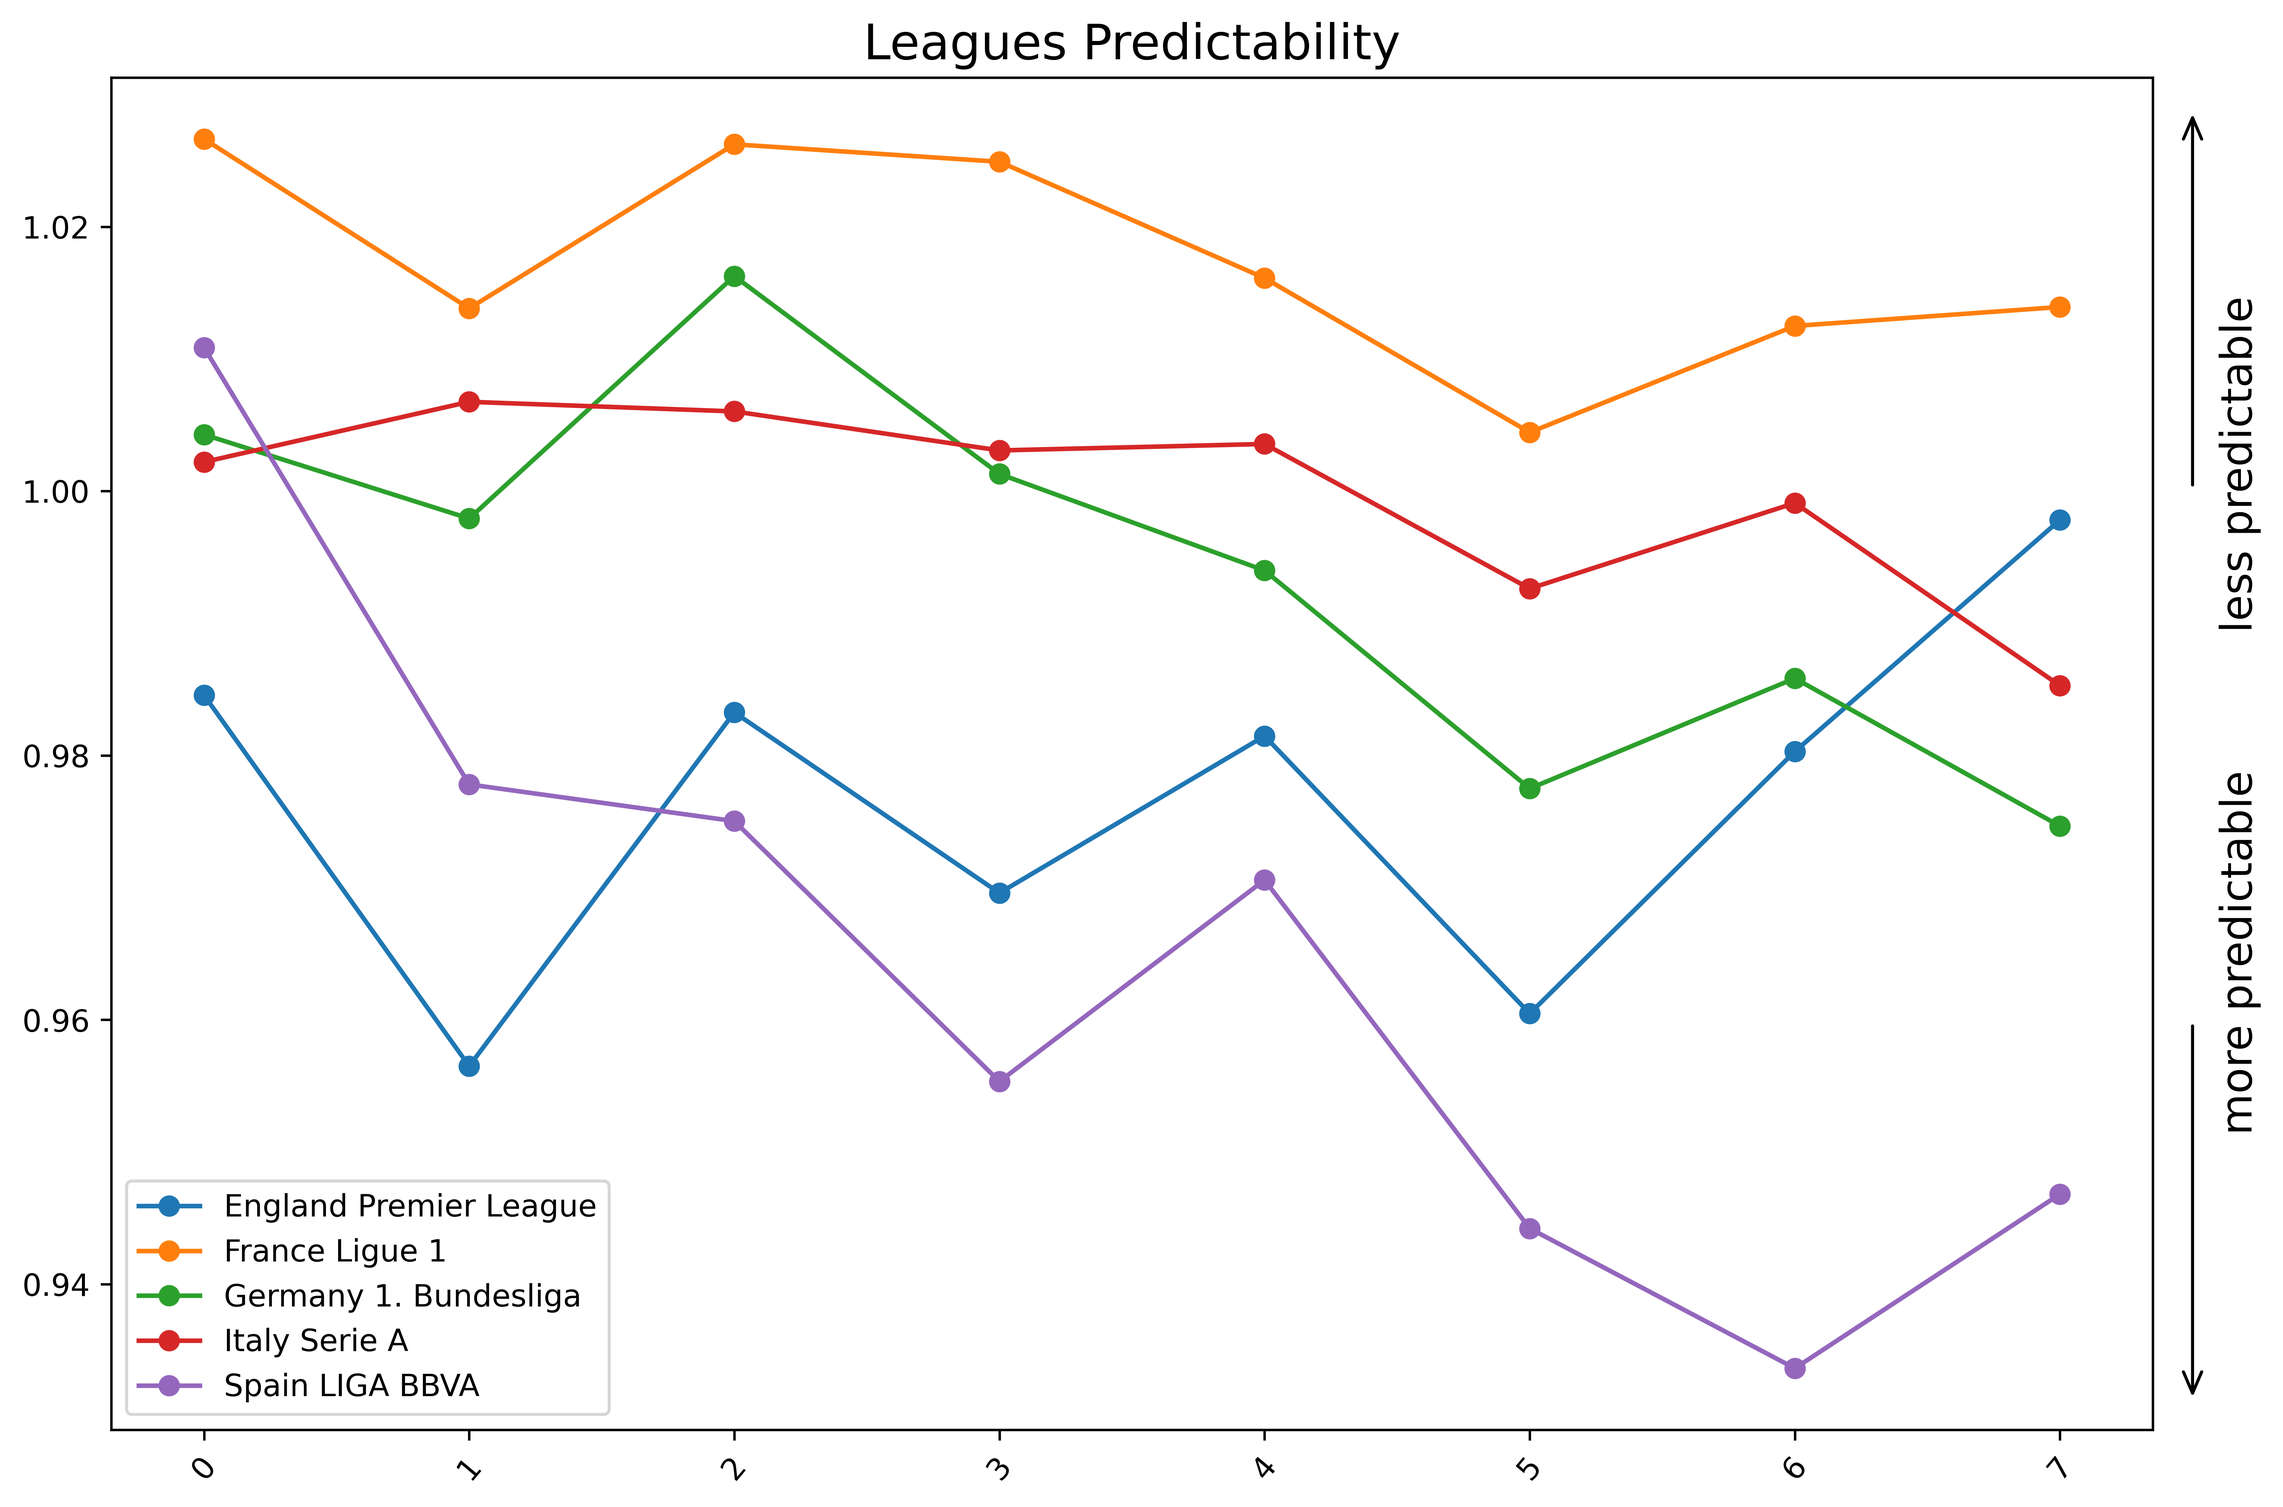
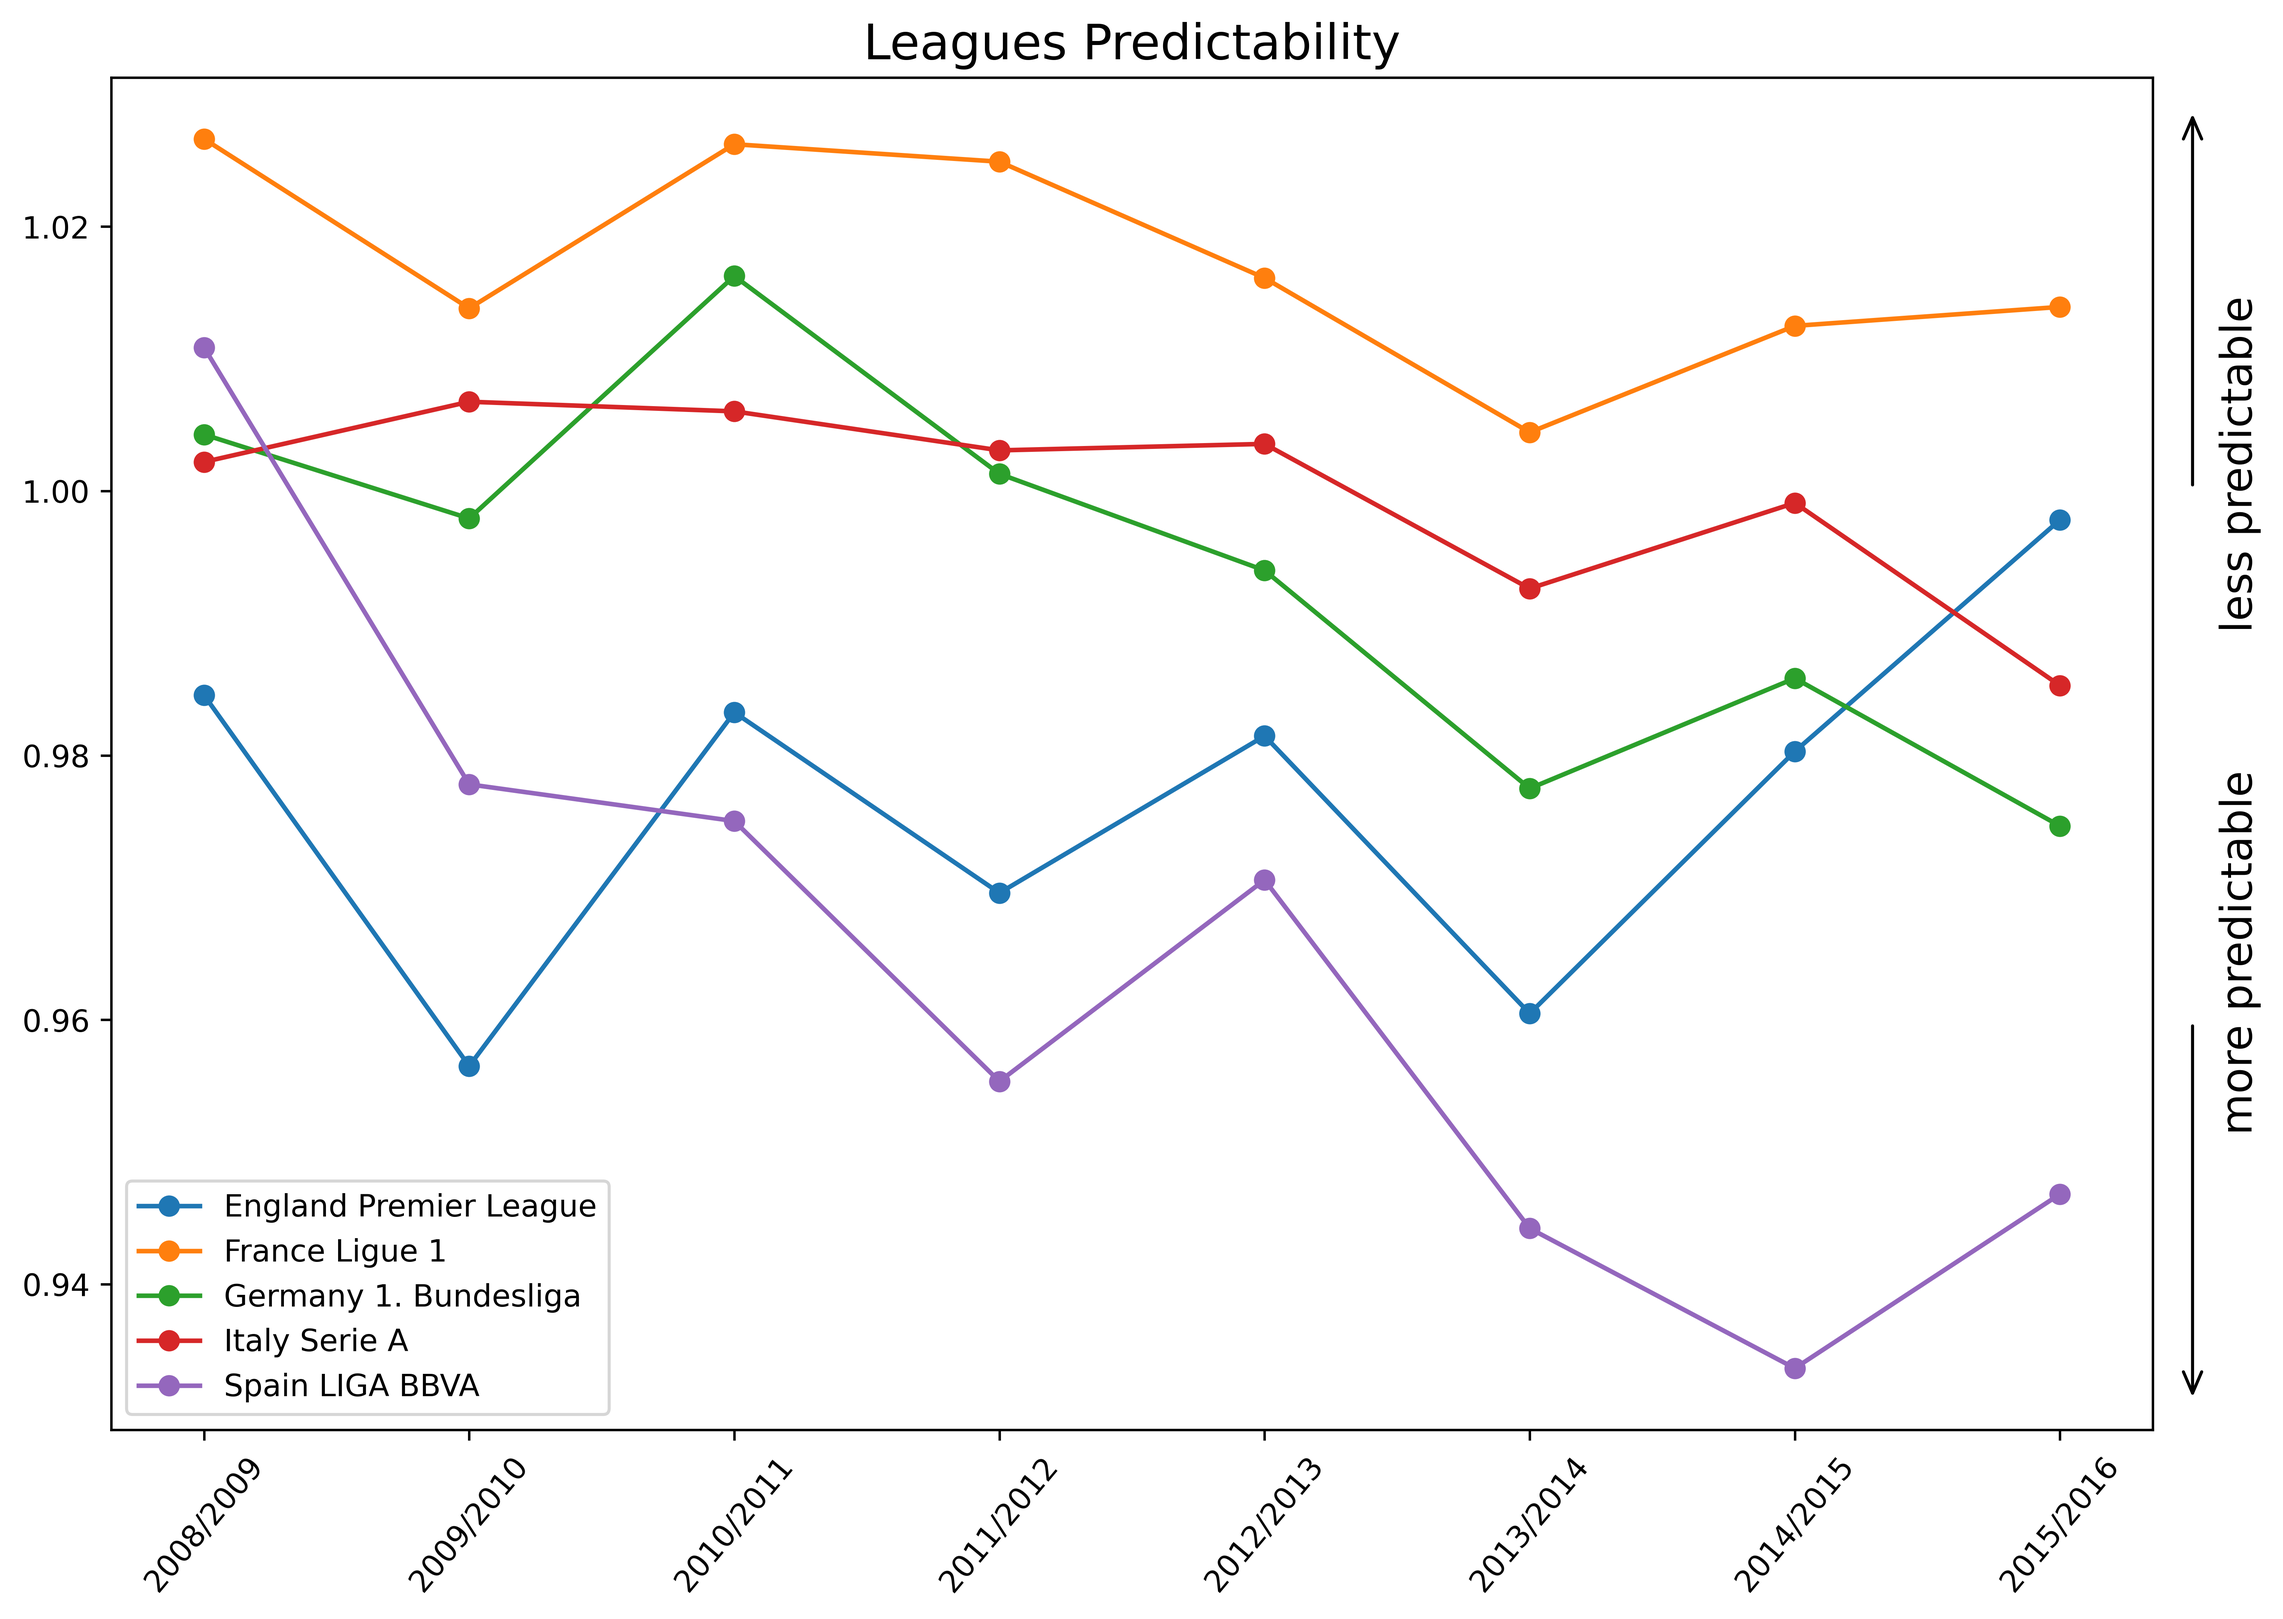
pipeline completed

diff --git a/src/visualization/visualize.py b/src/visualization/visualize.py
@@ -6,92 +6,97 @@ from numpy import random
 import matplotlib.pyplot as plt
 from matplotlib.lines import Line2D
 
-#load data
-matches = pd.read_csv('data/processed/matches.csv')
-entropy_means = pd.read_csv('data/processed/entropy_means.csv')
-teams = pd.read_csv('data/processed/teams.csv')
-leagues = pd.read_csv('data/processed/leagues.csv')
 
+def make_visualizations(matches, entropy_means, teams, leagues):
 
-## -- Leagues Predictability -- ##
+    ## -- Leagues Predictability -- ##
 
-ax = entropy_means.plot(figsize=(12,8),marker='o') #plot graph
-plt.title('Leagues Predictability', fontsize=16)   #set title
-plt.xticks(rotation=50)                            #set ticks rotation
-colors = [x.get_color() for x in ax.get_lines()]   #keep colors for next graph
-colors_mapping = dict(zip(matches.league_id,colors))
-ax.set_xlabel('')                                  #remove x label
-plt.legend(loc='lower left')                       #locate legend
-#add arrows:
-ax.annotate('', xytext=(7.5, 1),xy=(7.5, 1.029),
-            arrowprops=dict(facecolor='black',arrowstyle="->, head_length=.7, head_width=.3",linewidth=1), annotation_clip=False)
-ax.annotate('', xytext=(7.5, 0.96),xy=(7.5, 0.931),
-            arrowprops=dict(facecolor='black',arrowstyle="->, head_length=.7, head_width=.3",linewidth=1), annotation_clip=False)
-ax.annotate('less predictable', xy=(7.6, 0.99), annotation_clip=False,fontsize=14,rotation='vertical')
-ax.annotate('more predictable', xy=(7.6, 0.952), annotation_clip=False,fontsize=14,rotation='vertical')
+    ax = entropy_means.plot(figsize=(12,8),marker='o') #plot graph
+    plt.title('Leagues Predictability', fontsize=16)   #set title
+    plt.xticks(rotation=50)                            #set ticks rotation
+    colors = [x.get_color() for x in ax.get_lines()]   #keep colors for next graph
+    colors_mapping = dict(zip(matches.League.unique(),colors))
+    ax.set_xlabel('')                                  #remove x label
+    plt.legend(loc='lower left')                       #locate legend
+    #add arrows:
+    ax.annotate('', xytext=(7.5, 1),xy=(7.5, 1.029),
+                arrowprops=dict(facecolor='black',arrowstyle="->, head_length=.7, head_width=.3",linewidth=1), annotation_clip=False)
+    ax.annotate('', xytext=(7.5, 0.96),xy=(7.5, 0.931),
+                arrowprops=dict(facecolor='black',arrowstyle="->, head_length=.7, head_width=.3",linewidth=1), annotation_clip=False)
+    ax.annotate('less predictable', xy=(7.6, 0.99), annotation_clip=False,fontsize=14,rotation='vertical')
+    ax.annotate('more predictable', xy=(7.6, 0.952), annotation_clip=False,fontsize=14,rotation='vertical')
 
-plt.savefig('reports/figures/leagues_pred.png', bbox_inches='tight',dpi=600)
+    plt.savefig('reports/figures/leagues_pred.png', bbox_inches='tight',dpi=600)
 
+    ## -- Teams Predictability -- ##
 
-## -- Teams Predictability -- ##
+    offsets = [-0.16,-0.08,0,0.08,0.16]
+    colors_mapping = dict(zip(matches.league_id.unique(),colors))
+    offsets_mapping = dict(zip(colors_mapping.keys(),offsets))
+    y = []
+    x = []
+    c = []
 
-offsets = [-0.16,-0.08,0,0.08,0.16]
-offsets_mapping = dict(zip(colors_mapping.keys(),offsets))
-y = []
-x = []
-c = []
+    i = -1
+    for season,season_df in matches.groupby('season'):
+        i+=1
+        for team,name in zip(teams.team_api_id,teams.team_long_name):
+            #WIP:
+            team_df = season_df[(season_df.home_team_api_id==team)|(season_df.away_team_api_id==team)]
+            team_entropy = team_df.entropy.mean()
+            if team_entropy>0:
+                league_id = team_df.league_id.values[0]
+                x.append(i+offsets_mapping[league_id])
+                y.append(team_entropy)
+                c.append(colors_mapping[league_id])
 
-i = -1
-for season,season_df in matches.groupby('season'):
-    i+=1
-    for team,name in zip(teams.team_api_id,teams.team_long_name):
-        #WIP:
-        team_df = season_df[(season_df.home_team_api_id==team)|(season_df.away_team_api_id==team)]
-        team_entropy = team_df.entropy.mean()
-        if team_entropy>0:
-            league_id = team_df.league_id.values[0]
-            x.append(i+offsets_mapping[league_id])
-            y.append(team_entropy)
-            c.append(colors_mapping[league_id])
+    plt.figure(figsize=(16,8))
+    plt.scatter(x,y,color=c,s=[60]*len(x))
+    plt.title('Teams Predictability', fontsize=16)
 
-plt.figure(figsize=(16,8))
-plt.scatter(x,y,color=c,s=[60]*len(x))
-plt.title('Teams Predictability', fontsize=16)
+    #create ticks and labels
+    ax = plt.gca()
+    plt.xlim((-0.5,7.5))
+    plt.xticks(np.arange(0,8,1),rotation=50)
 
-#create ticks and labels
-ax = plt.gca()
-plt.xlim((-0.5,7.5))
-plt.xticks(np.arange(0,8,1),rotation=50)
+    #create grid
+    ax.set_xticklabels(entropy_means.index,fontsize=12)
+    for i in range(7):
+        ax.axvline(x=0.5+i,ls='--',c='w')
+    ax.yaxis.grid(False)
+    ax.xaxis.grid(False)
 
-#create grid
-ax.set_xticklabels(entropy_means.index,fontsize=12)
-for i in range(7):
-    ax.axvline(x=0.5+i,ls='--',c='w')
-ax.yaxis.grid(False)
-ax.xaxis.grid(False)
+    #create legend
+    circles = []
+    labels = []
+    #for league_id,name in zip(leagues.id,leagues.name):
+    #    labels.append(name)
+    #    circles.append(Line2D([0], [0], linestyle="none", marker="o", markersize=8, markerfacecolor=colors_mapping[league_id]))
+    #plt.legend(circles, labels, numpoints=3, loc=(0.005,0.02))
 
-#create legend
-circles = []
-labels = []
-for league_id,name in zip(leagues.id,leagues.name):
-    labels.append(name)
-    circles.append(Line2D([0], [0], linestyle="none", marker="o", markersize=8, markerfacecolor=colors_mapping[league_id]))
-plt.legend(circles, labels, numpoints=3, loc=(0.005,0.02))
+    #add arrows
+    ax.annotate('', xytext=(7.65, 0.93),xy=(7.65, 1.1),
+                arrowprops=dict(facecolor='black',arrowstyle="->, head_length=.7, head_width=.3",linewidth=1), annotation_clip=False)
 
-#add arrows
-ax.annotate('', xytext=(7.65, 0.93),xy=(7.65, 1.1),
-            arrowprops=dict(facecolor='black',arrowstyle="->, head_length=.7, head_width=.3",linewidth=1), annotation_clip=False)
+    ax.annotate('', xytext=(7.65, 0.77),xy=(7.65, 0.6),
+                arrowprops=dict(facecolor='black',arrowstyle="->, head_length=.7, head_width=.3",linewidth=1), annotation_clip=False)
 
-ax.annotate('', xytext=(7.65, 0.77),xy=(7.65, 0.6),
-            arrowprops=dict(facecolor='black',arrowstyle="->, head_length=.7, head_width=.3",linewidth=1), annotation_clip=False)
+    ax.annotate('less predictable', xy=(7.75, 1.05), annotation_clip=False,fontsize=14,rotation='vertical')
+    ax.annotate('more predictable', xy=(7.75, 0.73), annotation_clip=False,fontsize=14,rotation='vertical')
 
-ax.annotate('less predictable', xy=(7.75, 1.05), annotation_clip=False,fontsize=14,rotation='vertical')
-ax.annotate('more predictable', xy=(7.75, 0.73), annotation_clip=False,fontsize=14,rotation='vertical')
+    #add labels
+    ax.annotate('Barcelona', xy=(6.55, 0.634),fontsize=9)
+    ax.annotate('B. Munich', xy=(6.5, 0.655),fontsize=9)
+    ax.annotate('Real Madrid', xy=(6.51, 0.731),fontsize=9)
+    ax.annotate('PSG', xy=(6.93, 0.78),fontsize=9)
 
-#add labels
-ax.annotate('Barcelona', xy=(6.55, 0.634),fontsize=9)
-ax.annotate('B. Munich', xy=(6.5, 0.655),fontsize=9)
-ax.annotate('Real Madrid', xy=(6.51, 0.731),fontsize=9)
-ax.annotate('PSG', xy=(6.93, 0.78),fontsize=9)
+    plt.savefig('reports/figures/teams_pred.png', bbox_inches='tight',dpi=600)
 
-plt.savefig('reports/figures/teams_pred.png', bbox_inches='tight',dpi=600)
+if __name__ == '__main__':
+    #load data
+    matches = pd.read_csv('data/processed/matches_with_entropy.csv')
+    entropy_means = pd.read_csv('data/processed/entropy_means.csv')
+    teams = pd.read_csv('data/processed/teams.csv')
+    leagues = pd.read_csv('data/processed/leagues.csv')
+
+    make_visualizations(matches, entropy_means, teams, leagues)

diff --git a/src/features/build_features.py b/src/features/build_features.py
@@ -4,12 +4,6 @@ import pandas as pd
 from scipy.stats import entropy
 
 
-#load data
-countries = pd.read_csv('data/processed/countries.csv')
-matches = pd.read_csv('data/processed/matches.csv')
-leagues = pd.read_csv('data/processed/leagues.csv')
-
-
 def match_entropy(row):
     odds = [row['B365H'],row['B365D'],row['B365A']]
     #change odds to probability
@@ -19,21 +13,34 @@ def match_entropy(row):
     probs = [p/norm for p in probs]
     return entropy(probs)
 
+def process(matches, countries, leagues):
 
-#select relevant countries and merge with leagues
-selected_countries = ['England','France','Germany','Italy','Spain']
-countries = countries[countries.name.isin(selected_countries)]
-leagues = countries.merge(leagues,on='id',suffixes=('', '_y'))
+    #select relevant countries and merge with leagues
+    selected_countries = ['England','France','Germany','Italy','Spain']
+    countries = countries[countries.name.isin(selected_countries)]
+    leagues = countries.merge(leagues,on='id',suffixes=('', '_y'))
 
-#select relevant fields
-matches = matches[matches.league_id.isin(leagues.id)]
-matches = matches[['id', 'country_id' ,'league_id', 'season', 'stage', 'date','match_api_id', 'home_team_api_id', 'away_team_api_id',
-    'B365H', 'B365D' ,'B365A']]
+    #select relevant fields
+    matches = matches[matches.league_id.isin(leagues.id)]
+    matches = matches[['id', 'country_id' ,'league_id', 'season', 'stage', 'date','match_api_id', 'home_team_api_id', 'away_team_api_id',
+        'B365H', 'B365D' ,'B365A']]
+    matches['League'] = matches.league_id.map(leagues.set_index('id')['name_y'])
 
-#compute match entropy
-matches['entropy'] = matches.apply(match_entropy,axis=1)
+    #compute match entropy
+    matches['entropy'] = matches.apply(match_entropy,axis=1)
 
-#compute mean entropy for every league in every season
-entropy_means = matches.groupby(['season','League']).entropy.mean()
-entropy_means = entropy_means.reset_index().pivot(index='season', columns='League', values='entropy')
-entropy_means.to_csv('data/processed/entropy_means.csv')
+    #compute mean entropy for every league in every season
+    entropy_means = matches.groupby(['season','League']).entropy.mean()
+    entropy_means = entropy_means.reset_index().pivot(index='season', columns='League', values='entropy')
+    entropy_means.to_csv('data/processed/entropy_means.csv')
+    matches.to_csv('data/processed/matches_with_entropy.csv')
+
+    return entropy_means, matches
+
+if __name__ == '__main__':
+    #load data
+    countries = pd.read_csv('data/processed/countries.csv')
+    matches = pd.read_csv('data/processed/matches.csv')
+    leagues = pd.read_csv('data/processed/leagues.csv')
+
+    process(matches, countries, leagues)

diff --git a/src/data/make_dataset.py b/src/data/make_dataset.py
@@ -8,6 +8,8 @@ from pathlib import Path
 from dotenv import find_dotenv, load_dotenv
 import sqlite3
 import pandas as pd
+from src.features.build_features import process
+from src.visualization.visualize import make_visualizations
 
 
 @click.command()
@@ -19,22 +21,36 @@ def main(input_filepath, output_filepath):
     """
     logger = logging.getLogger(__name__)
 
-    logger.info('making final data set from raw data')
+    logger.info('making final data set from raw data..')
 
     with sqlite3.connect(f"{input_filepath}/database.sqlite") as con:
         # (downloaded from https://www.kaggle.com/hugomathien/soccer, updated on 2016)
 
-        db_df = pd.read_sql_query("SELECT * FROM Country", con)
-        db_df.to_csv(f"{output_filepath}/countries.csv", index=False)
+        countries = pd.read_sql_query("SELECT * FROM Country", con)
+        countries.to_csv(f"{output_filepath}/countries.csv", index=False)
 
-        db_df = pd.read_sql_query("SELECT * FROM Match", con)
-        db_df.to_csv(f"{output_filepath}/matches.csv", index=False)
+        matches = pd.read_sql_query("SELECT * FROM Match", con)
+        matches.to_csv(f"{output_filepath}/matches-2008-2016.csv", index=False)
 
-        db_df = pd.read_sql_query("SELECT * FROM League", con)
-        db_df.to_csv(f"{output_filepath}/leagues.csv", index=False)
+        teams = pd.read_sql_query("SELECT team_api_id, team_long_name FROM Team", con)
+        teams.to_csv(f"{output_filepath}/teams.csv", index=False)
 
-        db_df = pd.read_sql_query("SELECT team_api_id, team_long_name FROM Team", con)
-        db_df.to_csv(f"{output_filepath}/teams.csv", index=False)
+        leagues = pd.read_sql_query("SELECT * FROM League", con)
+        leagues.to_csv(f"{output_filepath}/leagues.csv", index=False)
+
+    # matches from 2016/17 to 2019/20 downloaded from https://www.football-data.co.uk/
+
+    #TODO: merge all raw data from 2008/2009-2015/2016 to 2019/2020 into matches.csv
+
+    #./src/features/build_features.py
+    logger = logging.getLogger(".".join([process.__module__,process.__name__]))
+    logger.info('building features..')
+    entropy_means, matches = process(matches, countries, leagues)
+
+    #./src/visualization/visualize.py
+    logger = logging.getLogger(".".join([make_visualizations.__module__,make_visualizations.__name__]))
+    logger.info('making visualizations..')
+    make_visualizations(matches, entropy_means, teams, leagues)
 
     logger.info('final data set done.')
 
